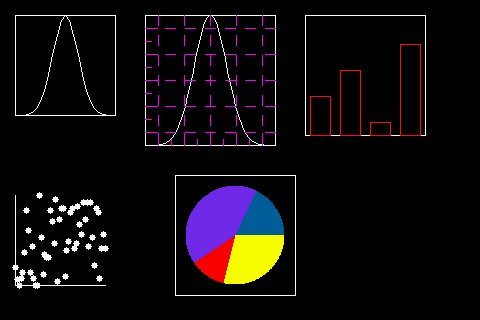
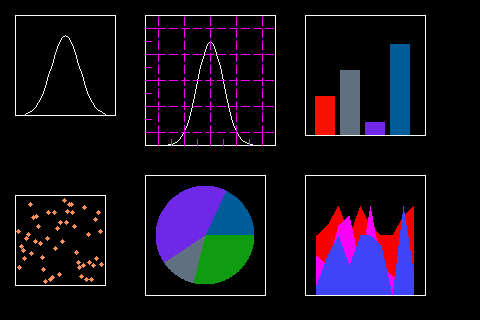
updating ranges, and colors, adding readme example code

diff --git a/circuitpython_uplot/uplot.py b/circuitpython_uplot/uplot.py
@@ -38,8 +38,7 @@ __repo__ = "https://github.com/adafruit/CircuitPython_uplot.git"
 
 
 # pylint: disable=too-many-arguments, too-many-instance-attributes, too-many-locals
-
-
+# pylint: disable=too-many-statements
 class Uplot(displayio.Group):
     """
     Canvas Class to add different elements to the screen.
@@ -50,6 +49,7 @@ class Uplot(displayio.Group):
     :param int width: plot box width in pixels
     :param int height: plot box height in pixels
     :param int padding: padding for the plot box in all directions
+    :param bool show_box: select if the plot box is displayed
 
     """
 
@@ -85,6 +85,9 @@ class Uplot(displayio.Group):
 
         self._axesparams = "box"
 
+        self._width = width
+        self._height = height
+
         self.padding = padding
         self._newxmin = padding
         self._newxmax = width - padding
@@ -97,14 +100,14 @@ class Uplot(displayio.Group):
         self._showticks = False
         self._tickgrid = False
 
-        self._barcolor = 0xFFFFFF
+        self._grid_espace = self._width // 40
+        self._grid_lenght = self._width // 20
 
-        self._piecolor = 0xFFFFFF
+        self._barcolor = 0x69FF8F
+
+        self._piecolor = 0x8B77FF
 
         self._index_colorused = 4
-
-        self._width = width
-        self._height = height
 
         self._plotbitmap = displayio.Bitmap(width, height, 14)
 
@@ -116,8 +119,8 @@ class Uplot(displayio.Group):
         self._plot_palette[1] = 0xFFFFFF
         self._plot_palette[2] = self._tickcolor
         self._plot_palette[3] = self._barcolor
-        self._plot_palette[4] = 0xFFFF00  # Pie Chart color 1
-        self._plot_palette[5] = 0xFF0000  # Pie Chart color 2
+        self._plot_palette[4] = 0x149F14  # Pie Chart color 1
+        self._plot_palette[5] = 0x647182  # Pie Chart color 2
         self._plot_palette[6] = 0x7428EF  # Pie Chart color 3
         self._plot_palette[7] = 0x005E99  # Pie Chart color 4
         self._plot_palette[8] = 0x00A76D  # Pie Chart color 5
@@ -344,20 +347,18 @@ class Uplot(displayio.Group):
         :return: None
 
         """
-        grid_espace = 10
-        line_lenght = 10
         for tick in ticks_data:
             start = self._newymin
-            while start >= self._newymax:
+            while start - self._grid_lenght >= self._newymax:
                 draw_line(
                     self._plotbitmap,
                     tick,
                     start,
                     tick,
-                    start - line_lenght,
+                    start - self._grid_lenght,
                     2,
                 )
-                start = start - grid_espace - line_lenght
+                start = start - self._grid_espace - self._grid_lenght
 
     def _draw_gridy(self, ticks_data: list[int]) -> None:
         """
@@ -366,8 +367,6 @@ class Uplot(displayio.Group):
         :return: None
 
         """
-        grid_espace = 10
-        line_lenght = 10
         for tick in ticks_data:
             start = self._newxmin
             while start <= self._newxmax:
@@ -375,11 +374,11 @@ class Uplot(displayio.Group):
                     self._plotbitmap,
                     start,
                     tick,
-                    start + line_lenght,
+                    start + self._grid_lenght,
                     tick,
                     2,
                 )
-                start = start + grid_espace + line_lenght
+                start = start + self._grid_espace + self._grid_lenght
 
     def update_plot(self) -> None:
         """

diff --git a/examples/uplot_readme_example.py b/examples/uplot_readme_example.py
@@ -1,0 +1,97 @@
+# SPDX-FileCopyrightText: Copyright (c) 2023 Jose D. Montoya
+#
+# SPDX-License-Identifier: MIT
+
+from random import choice
+import board
+import displayio
+from ulab import numpy as np
+from circuitpython_uplot.uplot import Uplot
+from circuitpython_uplot.ubar import ubar
+from circuitpython_uplot.uscatter import uscatter
+from circuitpython_uplot.upie import upie
+from circuitpython_uplot.ucartesian import ucartesian
+
+
+display = board.DISPLAY
+plot = Uplot(0, 0, display.width, display.height, show_box=False)
+
+group = displayio.Group()
+
+palette = displayio.Palette(1)
+palette[0] = 0xFFFFFF
+
+
+plot2 = Uplot(0, 0, 130, 130)
+x = np.linspace(-4, 4, num=25)
+constant = 2.0 / np.sqrt(2 * np.pi)
+y = constant * np.exp((-(x**2)) / 4.0)
+ucartesian(plot2, x, y, rangex=[-5, 5], rangey=[0, 1])
+plot.append(plot2)
+
+plot3 = Uplot(130, 0, 160, 160)
+
+# Setting up tick parameters
+plot3.tick_params(tickheight=12, tickcolor=0xFF00FF, tickgrid=True)
+
+# Seeting some date to plot
+x = np.linspace(-4, 4, num=50)
+constant = 1.0 / np.sqrt(2 * np.pi)
+y = constant * np.exp((-(x**2)) / 2.0)
+
+# Plotting and showing the plot
+ucartesian(plot3, x, y, rangex=[-5, 5], rangey=[0, 0.5])
+plot.append(plot3)
+
+plot4 = Uplot(290, 0, 150, 150)
+
+# Setting up tick parameters
+plot4.axs_params(axstype="box")
+a = ["a", "b", "c", "d"]
+b = [3, 5, 1, 7]
+ubar(plot4, a, b, 0xFF1000, fill=True)
+
+plot.append(plot4)
+
+# Setting up the display
+
+plot5 = Uplot(0, 180, 120, 120)
+
+# Setting up tick parameters
+
+plot5.axs_params(axstype="cartesian")
+a = np.linspace(3, 98)
+b = [choice(a) for _ in a]
+uscatter(plot5, a, b, rangex=[0, 102], rangey=[0, 102], radius=2)
+
+plot.append(plot5)
+
+plot6 = Uplot(130, 160, 150, 150)
+
+# Setting up tick parameters
+plot6.axs_params(axstype="box")
+a = [5, 2, 7, 3]
+
+upie(plot6, a, 0, 0)
+
+plot.append(plot6)
+
+
+plot7 = Uplot(290, 160, 150, 150)
+
+# Creating some points to graph
+x = np.linspace(1, 10, num=10)
+
+y = [6, 7, 9, 6, 9, 7, 6, 6, 8, 9]
+ucartesian(plot7, x, y, rangex=[0, 11], rangey=[0, 12], line_color=0xFF0000, fill=True)
+
+y = [4, 3, 7, 8, 3, 9, 3, 2, 1, 2]
+ucartesian(plot7, x, y, rangex=[0, 11], rangey=[0, 12], line_color=0xFF00FF, fill=True)
+
+y = [1, 4, 6, 3, 6, 6, 5, 0, 9, 2]
+ucartesian(plot7, x, y, rangex=[0, 11], rangey=[0, 12], line_color=0x4444FF, fill=True)
+
+plot.append(plot7)
+
+
+display.show(plot)

diff --git a/circuitpython_uplot/uscatter.py b/circuitpython_uplot/uscatter.py
@@ -8,7 +8,7 @@
 `uscatter`
 ================================================================================
 
-CircuitPython uscatter graph
+CircuitPython scatter graph
 
 * Author(s): Jose D. Montoya
 
@@ -21,36 +21,59 @@ from vectorio import Circle
 __version__ = "0.0.0+auto.0"
 __repo__ = "https://github.com/adafruit/CircuitPython_uplot.git"
 
-# pylint: disable=too-few-public-methods, invalid-name
+# pylint: disable=too-few-public-methods, invalid-name, duplicate-code, too-many-locals, too-many-arguments
 class uscatter:
     """
     Main class to display different graphics
     """
 
-    def __init__(self, plot, x: any, y: any, radius: int = 3) -> None:
+    def __init__(
+        self,
+        plot,
+        x: any,
+        y: any,
+        rangex: any = None,
+        rangey: any = None,
+        radius: int = 3,
+        circle_color=0xFF905D,
+    ) -> None:
         """
 
-        :param plot: Plot object for the uscatter to be drawn
+        :param plot: Plot object for the scatter to be drawn
         :param x: x points coordinates
         :param y: y points coordinates
         :param int radius: circle radius
 
         """
 
+        if rangex is None:
+            xmin = np.min(x)
+            xmax = np.max(x)
+        else:
+            xmin = min(rangex)
+            xmax = max(rangex)
+
+        if rangey is None:
+            ymin = np.min(y)
+            ymax = np.max(y)
+        else:
+            ymin = min(rangey)
+            ymax = max(rangey)
+
         x = np.array(x)
         y = np.array(y)
 
         xnorm = np.array(
-            plot.normalize(np.min(x), np.max(x), plot._newxmin, plot._newxmax, x),
+            plot.normalize(xmin, xmax, plot._newxmin, plot._newxmax, x),
             dtype=np.uint16,
         )
         ynorm = np.array(
-            plot.normalize(np.min(y), np.max(y), plot._newymin, plot._newymax, y),
+            plot.normalize(ymin, ymax, plot._newymin, plot._newymax, y),
             dtype=np.uint16,
         )
 
         palette = displayio.Palette(1)
-        palette[0] = 0xFFFFFF
+        palette[0] = circle_color
         for i, _ in enumerate(x):
             plot.append(
                 Circle(pixel_shader=palette, radius=radius, x=xnorm[i], y=ynorm[i])

diff --git a/circuitpython_uplot/ubar.py b/circuitpython_uplot/ubar.py
@@ -32,8 +32,9 @@ class ubar:
         self._graphy = abs(plot._newymax - plot._newymin) // (max(y) + 2)
         self._new_min = int(plot.normalize(0, max(y), max(y), 0, 0))
         self._new_max = int(plot.normalize(0, max(y), max(y), 0, max(y)))
-        xstart = self._graphx
+
         bar_space = max(2, plot._width // 30)
+        xstart = self._graphx + bar_space
 
         plot._plot_palette[plot._index_colorused] = color
 

diff --git a/circuitpython_uplot/ucartesian.py b/circuitpython_uplot/ucartesian.py
@@ -7,7 +7,7 @@
 `ucartesian`
 ================================================================================
 
-CircuitPython pie graph
+CircuitPython cartesian graph
 
 * Author(s): Jose D. Montoya
 

diff --git a/docs/examples.rst b/docs/examples.rst
@@ -100,3 +100,13 @@ Stackplot simple example
     :caption: examples/uplot_stackplot.py
     :linenos:
 .. image:: ../docs/uplot_ex12.jpg
+
+Advanced Example
+---------------------------
+
+plot different ulements in a single display
+
+.. literalinclude:: ../examples/uplot_readme_example.py
+    :caption: examples/uplot_readme_example.py
+    :linenos:
+.. image:: ../docs/readme.png
